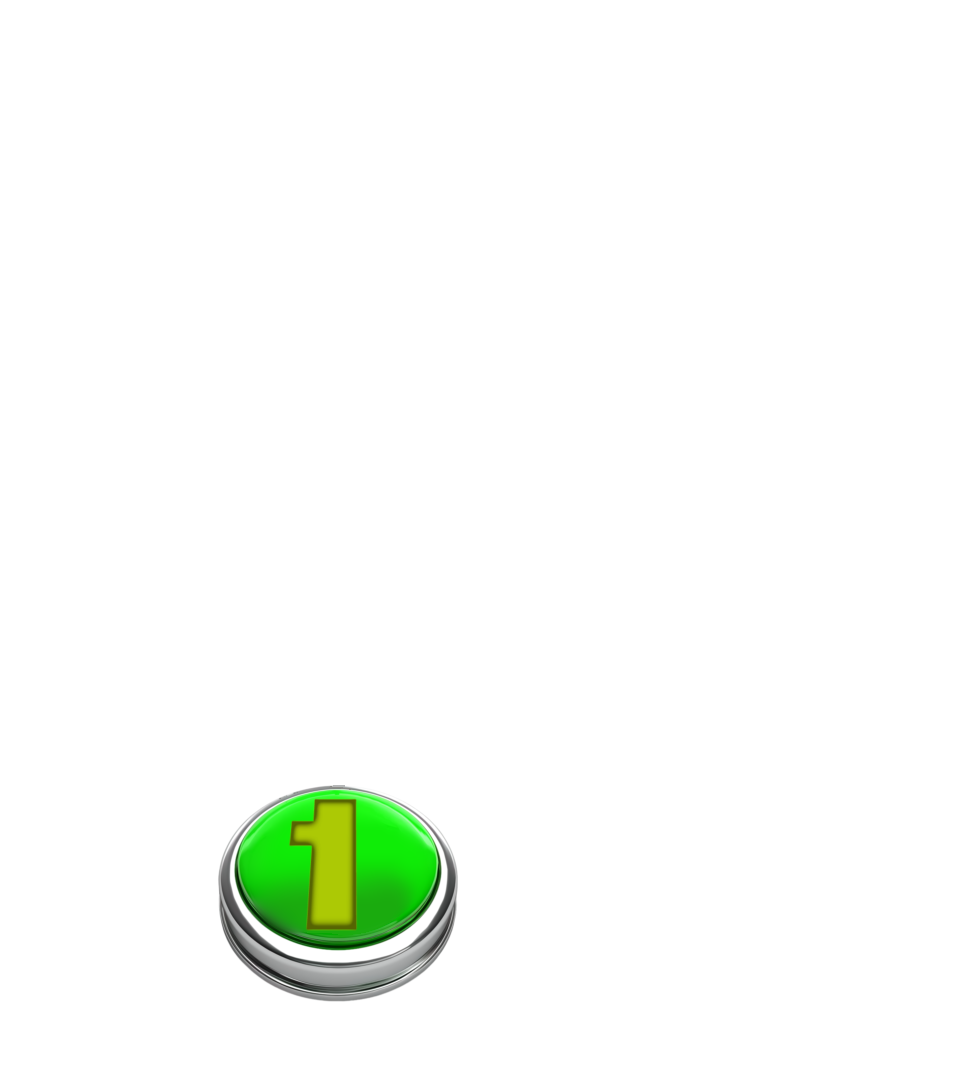
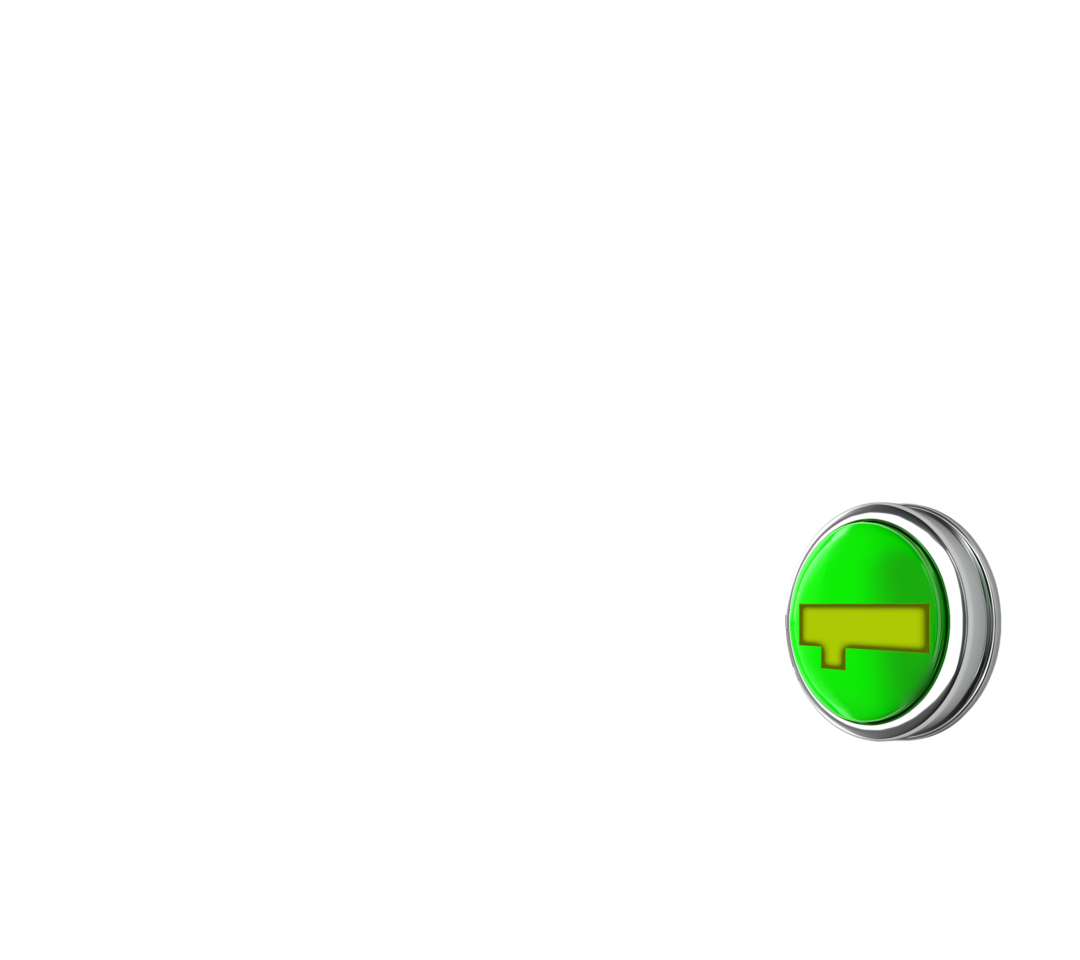
added working visuals

Changed region(s): [[0.7188, 0.5, 0.9375, 0.7812], [0.2188, 0.7188, 0.5, 0.9375]]

diff --git a/main.py b/main.py
@@ -21,33 +21,32 @@ class Game:
         self.offerIndex = 0 # offer on screen: 0, 1 or 2
         self.battle = None # no battle until the robot is finished
 
-    def loadAssets(self):
-        heads = []
-        bodies = []
-        arms = []
-        legs = []
-        light_on = []
-        light_off = []
+        #create images
+        self.heads_img = []
+        self.bodies_img = []
+        self.arms_img = []
+        self.legs_img = []
+        self.light_on_img = []
+        self.light_off_img = []
         types = ["pile","scrap","service","toy","companion","eco"]
 
         for t in types:
-            legs.append(pygame.image.load('assets/' + t + '_legs.png').convert())
-            bodies.append(pygame.image.load('assets/'+ t + '_body.png').convert())
-            arms.append(pygame.image.load('assets/' + t + '_arms.png').convert())
-            heads.append(pygame.image.load('assets/' + t +'_head.png').convert())
+            self.legs_img.append(pygame.image.load('assets/' + t + '_legs.png').convert_alpha())
+            self.bodies_img.append(pygame.image.load('assets/'+ t + '_body.png').convert_alpha())
+            self.arms_img.append(pygame.image.load('assets/' + t + '_arms.png').convert_alpha())
+            self.heads_img.append(pygame.image.load('assets/' + t +'_head.png').convert_alpha())
 
-        frame = pygame.image.load('assets/frame.png').convert()
-        background_img = pygame.image.load('assets/background_img.png').convert()
-        shelf = pygame.image.load('assets/shelf.png').convert()
-        fire = pygame.image.load('assets/fire.png').convert()
-        button_1 = pygame.image.load('/assets/button_1.png').convert()
-        button_2 = pygame.image.load('/assets/button_2.png').convert()
+        self.frame = pygame.image.load('assets/frame.png').convert_alpha()
+        self.background_img = pygame.image.load('assets/background.png').convert_alpha()
+        self.shelf = pygame.image.load('assets/shelf.png').convert_alpha()
+        self.fire = pygame.image.load('assets/fire.png').convert_alpha()
+        self.button_1_img = pygame.image.load('assets/button_1.png').convert_alpha()
+        self.button_2_img = pygame.image.load('assets/button_2.png').convert_alpha()
 
-        for i in range (0,3):
-            light_on.append(pygame.image.load('assets/light' + i + '_on.png').convert())
-            light_on.append(pygame.image.load('assets/light' + i + '_on.png').convert())
+        for i in range (1,4):
+            self.light_on_img.append(pygame.image.load('assets/light' + str(i) + '_on.png').convert_alpha())
+            self.light_off_img.append(pygame.image.load('assets/light' + str(i) + '_on.png').convert_alpha())
 
-        return heads,bodies,arms,legs,light_on,light_off,frame,background_img,shelf,fire,button_1,button_2
 
     def leftKeyPress(self):
         match self.gameState:
@@ -170,14 +169,14 @@ class Game:
 
     def beginGame(self):
         #draw background
-        screen.blit(background_img, (0,0))
-        screen.blit(frame_img, (0,0))
-        screen.blit(shelf_img,(960,0))
+        screen.blit(self.background_img, (0,0))
+        screen.blit(self.frame, (0,0))
+        screen.blit(self.shelf,(960,0))
         for i in range(0,3):
-            screen.blit(light_on_img[i], 960,0)
-            screen.blit(light_off_img[i], 960,0)
-        screen.blit(button_1_img, 960,0)
-        screen.blit(button_2_img, 960,0)
+            screen.blit(self.light_on_img[i], (960,0))
+            screen.blit(self.light_off_img[i], (960,0))
+        screen.blit(self.button_1_img, (960,0))
+        screen.blit(self.button_2_img, (960,0))
 
         #set loop condition
         self.running = True
@@ -197,9 +196,6 @@ pygame.init()
 screen = pygame.display.set_mode((1920, 1080))
 pygame.display.toggle_fullscreen
 
-
-#Assets
-heads_img,bodies_img,arms_img,legs_img,light_on_img,light_off_img,frame_img,background_img,shelf_img,fire_img = Game.load_assets()
 
 
 clock = pygame.time.Clock()
